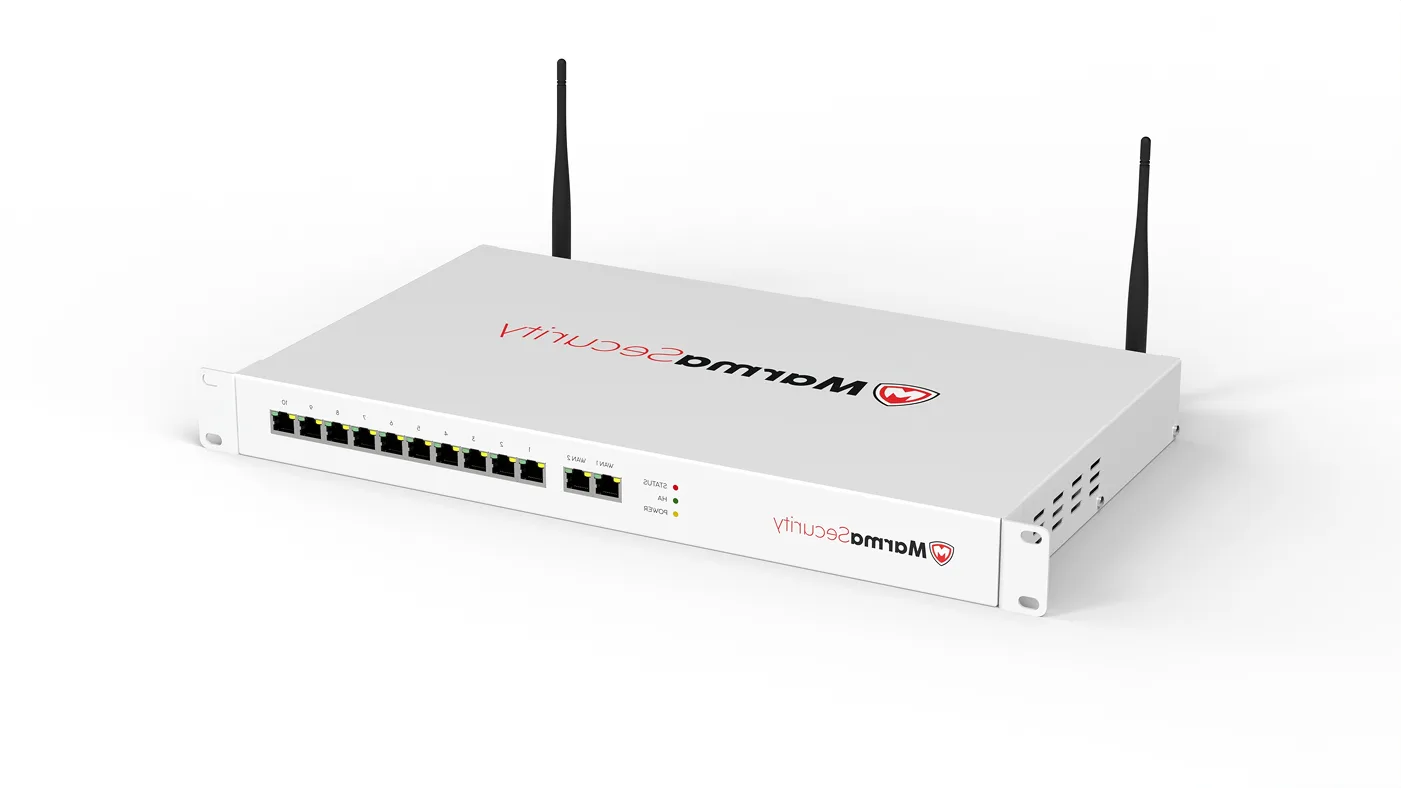
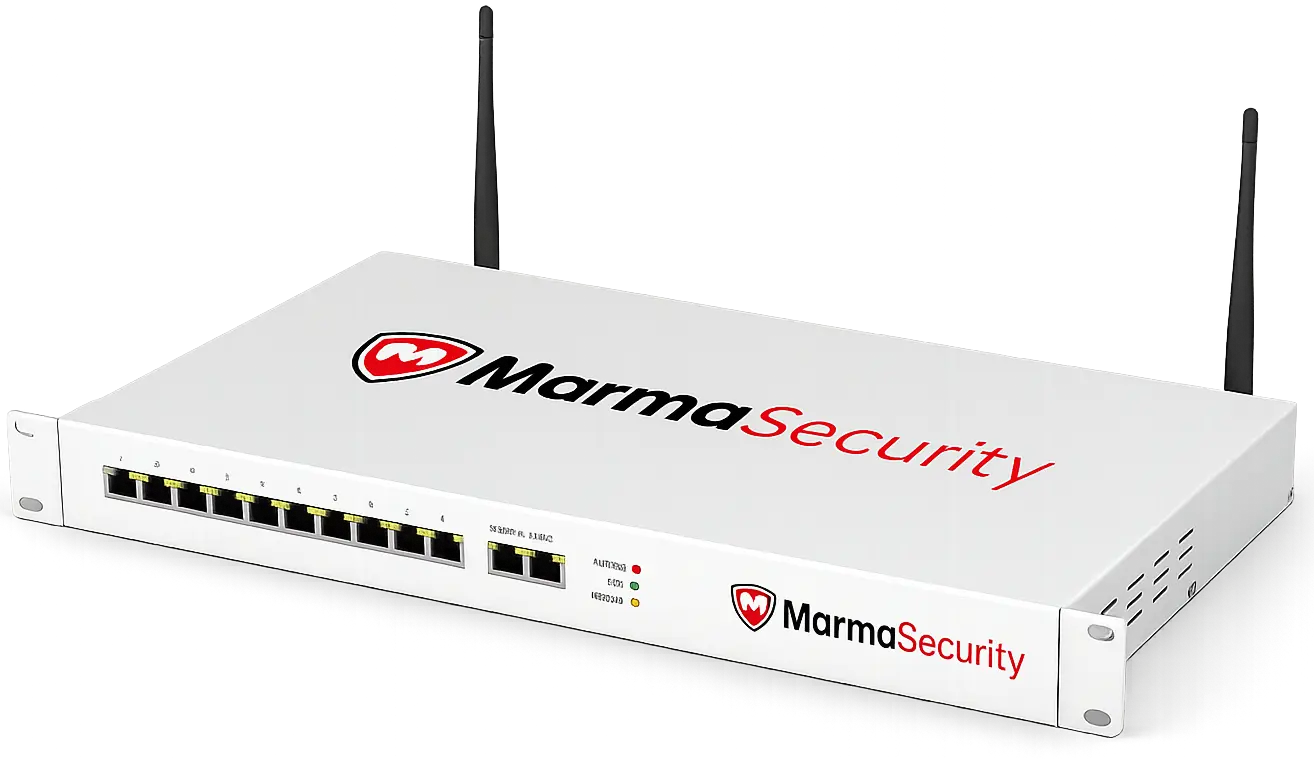
update product image

diff --git a/components/home/OurTopProduct.tsx b/components/home/OurTopProduct.tsx
@@ -14,36 +14,37 @@ interface Product {
 
 const topProducts: Product[] = [
   {
-    id: "safehome",
-    name: "SafeHome",
-    image: "/images/banners/solution-banner-right1.webp",
-    link: "/product?tab=home&product=safehome",
+    id: "safegov",
+    name: "SafeEnterprise 400",
+    image: "/images/product/SafeEnterprise4001.webp",
+    link: "/product?tab=enterprise&product=safeenterprise-400",
+  },
+  {
+    id: "safeenterprise",
+    name: "SafeEnterprise 200",
+    image: "/images/product/SafeEnterprise2001.webp",
+    link: "/product?tab=enterprise&product=safeenterprise-200",
+  },
+  {
+    id: "safecloud",
+    name: "SafeEnterprise 100",
+    image: "/images/product/SafeEnterprise4002.webp",
+    isNew: true,
+    link: "/product?tab=enterprise&product=saferemote",
   },
   {
     id: "safebiz",
     name: "SafeBiz",
     image: "/images/banners/homepage-right-banner1.webp",
-    isNew: true,
     link: "/product?tab=smb&product=safebiz",
   },
   {
-    id: "safeenterprise",
-    name: "SafeEnterprise 200",
+    id: "safehome",
+    name: "SafeHome",
     image: "/images/banners/solution-banner-right1.webp",
-    link: "/product?tab=enterprise&product=safeenterprise-200",
+    link: "/product?tab=home&product=safehome",
   },
-  {
-    id: "safegov",
-    name: "SafeEnterprise 400",
-    image: "/images/banners/homepage-right-banner1.webp",
-    link: "/product?tab=enterprise&product=safeenterprise-400",
-  },
-  {
-    id: "safecloud",
-    name: "SafeEnterprise 100",
-    image: "/images/banners/solution-banner-right1.webp",
-    link: "/product?tab=enterprise", // ⚠ no anchor — SE100 has no id in product page yet
-  },
+
 ];
 
 export default function OurTopProduct() {
